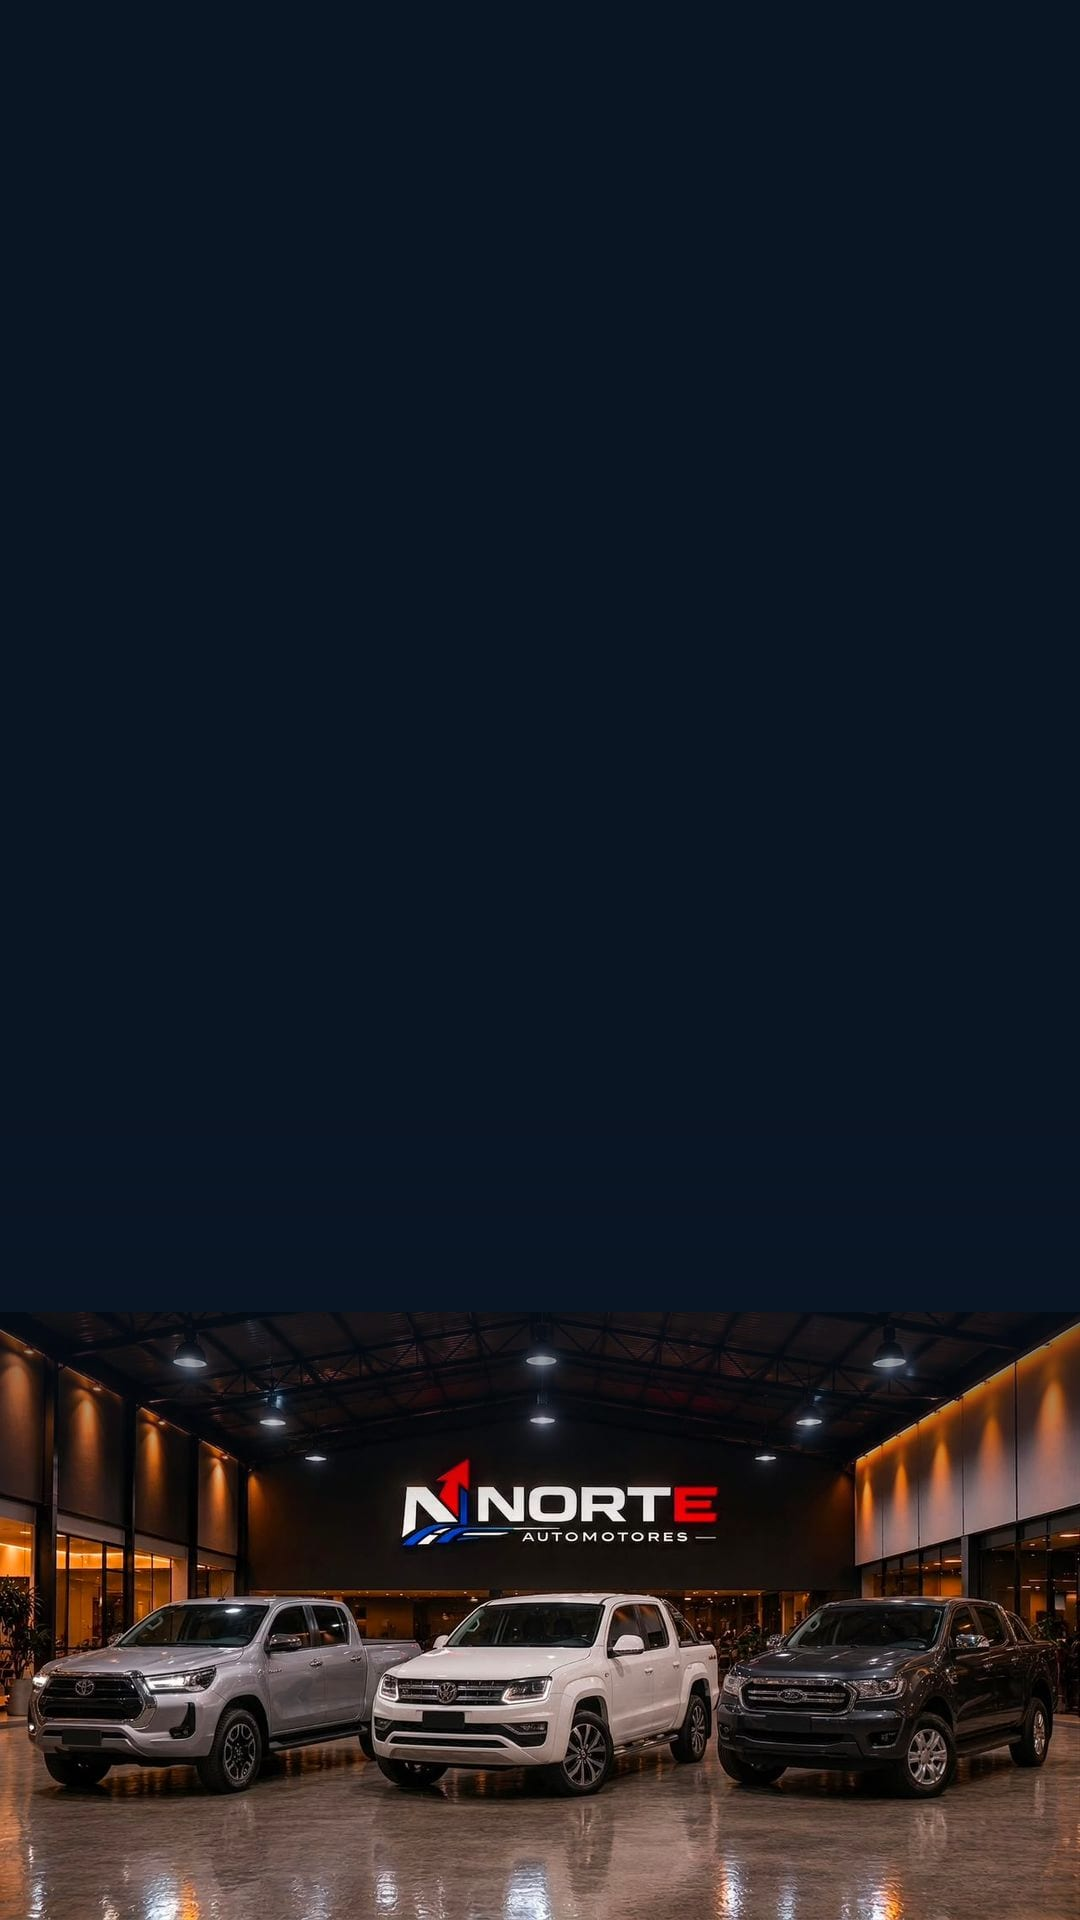
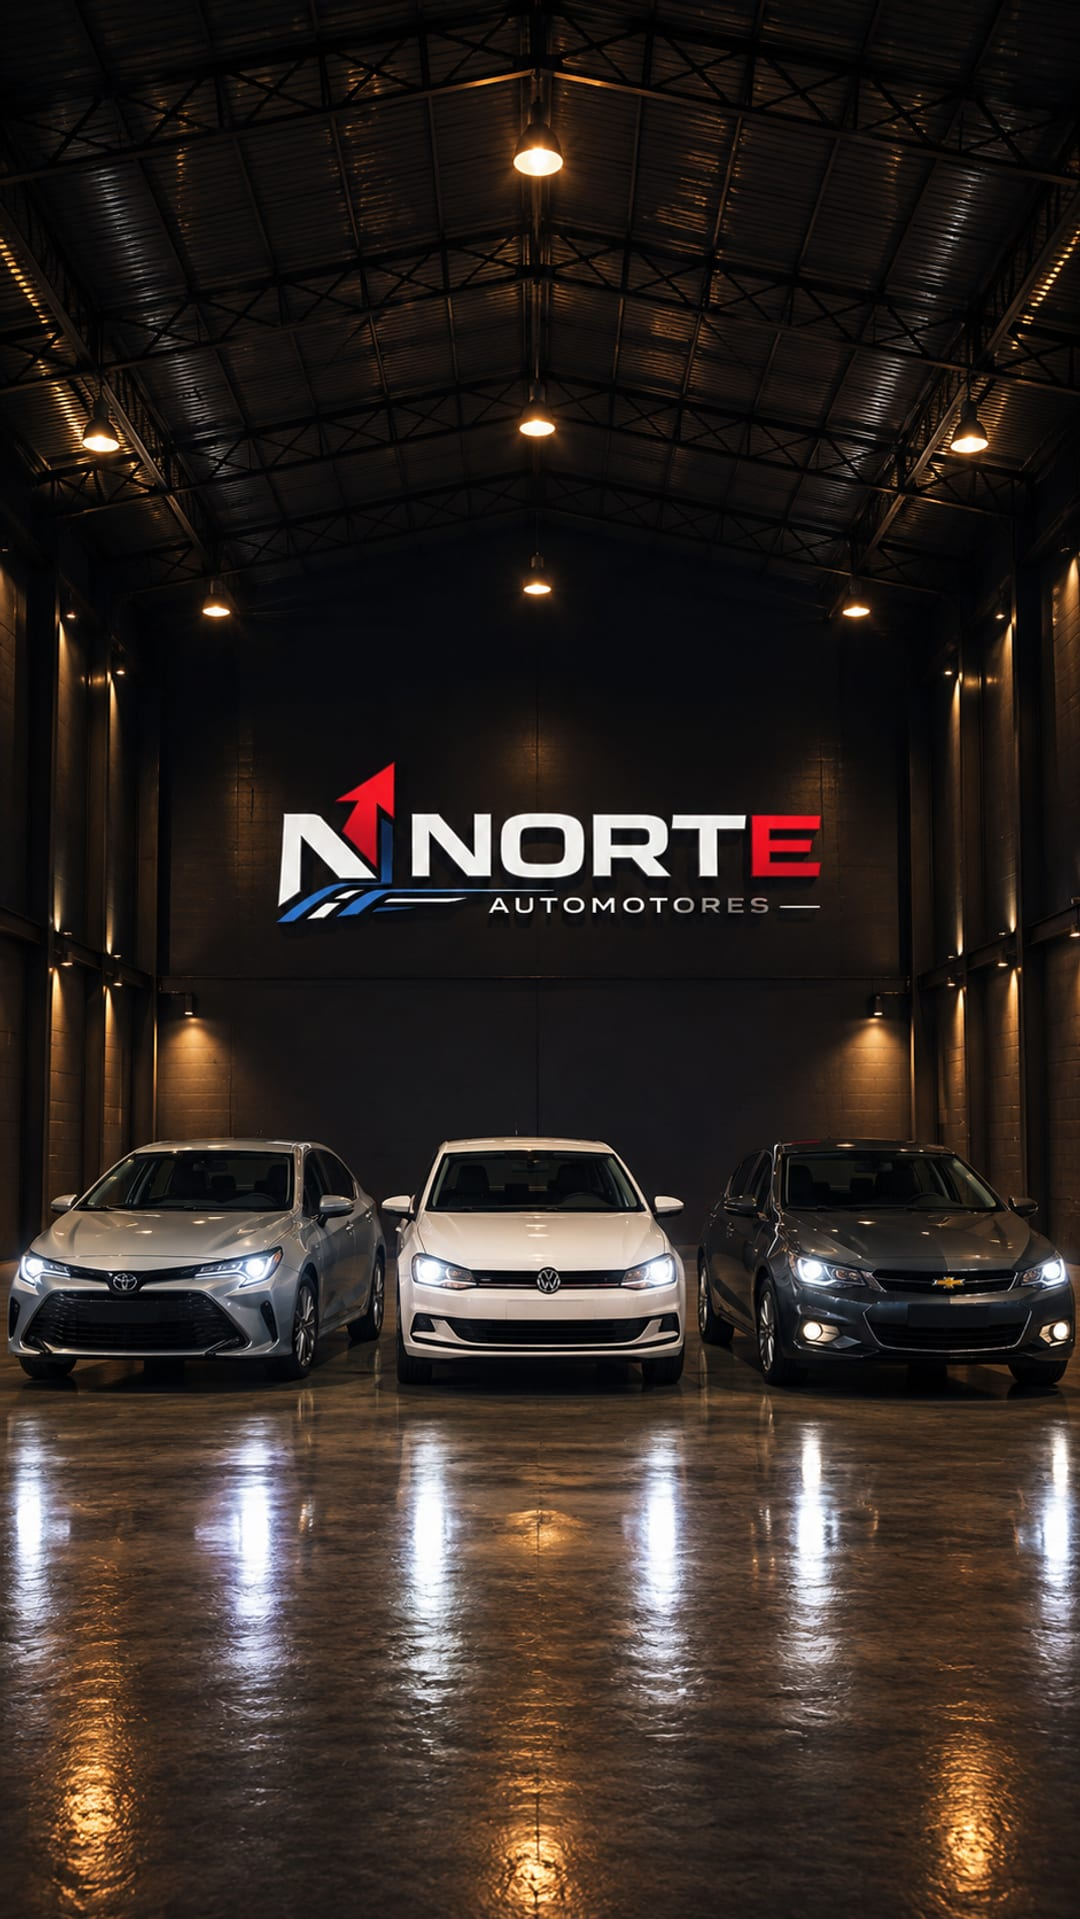
feat: full-bleed mobile hero with the 3 vertical images + same transition
Mobile hero now uses the dedicated portrait images as a full-bleed
slider (same crossfade + ken burns as desktop). White text over top/
bottom scrims; cars and logo stay visible in the middle/lower area.

diff --git a/src/app/page.tsx b/src/app/page.tsx
@@ -80,37 +80,32 @@ export default async function HomePage() {
       ══════════════════════════════════════════════════════ */}
       <section className="relative overflow-hidden bg-white -mt-[108px] pt-[108px]">
 
-        {/* ── MOBILE — texto sobre blanco con el logo N de fondo ── */}
-        <div className="relative lg:hidden min-h-[90dvh] overflow-hidden flex flex-col justify-center px-5 pt-[130px] pb-12 bg-white">
-          {/* Marca de agua del isotipo N */}
-          {/* eslint-disable-next-line @next/next/no-img-element */}
-          <img
-            src="/isotipo-n.svg"
-            alt=""
-            aria-hidden="true"
-            className="absolute pointer-events-none select-none opacity-[0.05] -rotate-12 w-[520px] max-w-none -right-32 top-1/2 -translate-y-1/2"
-          />
-          <div className="relative">
+        {/* ── MOBILE — foto vertical full-bleed con texto encima ── */}
+        <div className="relative lg:hidden min-h-[100dvh] overflow-hidden flex flex-col">
+          {/* Slider de fondo — imágenes verticales */}
+          <div className="absolute inset-0">
+            <HeroSlider images={["/hero-mobile-1.jpg", "/hero-mobile-2.jpg", "/hero-mobile-3.jpg"]} dots={false} objectPosition="center top" />
+          </div>
+          {/* Degradado: oscuro arriba (texto) y abajo (stats), abierto al medio */}
+          <div className="absolute inset-0 bg-gradient-to-b from-[#0A1524]/92 via-[#0A1524]/20 to-[#0A1524]/85 pointer-events-none" />
+
+          <div className="relative z-10 px-5 pt-[130px] pb-10 flex-1 flex flex-col">
             {/* Racing tag */}
-            <div className="flex items-center gap-3 mb-6">
+            <div className="flex items-center gap-3 mb-5">
               <div className="w-8 h-[3px] bg-brand-red" />
               <span className="text-brand-red text-[10px] font-black uppercase tracking-[0.4em] font-mono">La Rioja, Argentina</span>
               <div className="w-4 h-[3px] bg-brand-red/40" />
             </div>
 
             <div className="glint">
-              <h1 className="font-display font-black text-[3.8rem] text-[#173A5E] uppercase tracking-tight leading-[0.85] mb-5">
+              <h1 className="font-display font-black text-[3.5rem] text-white uppercase tracking-tight leading-[0.85] mb-4">
                 {config.hero_title ? config.hero_title : (
-                  <>TU AUTO IDEAL<br /><span className="text-brand-red" style={{ textShadow: "0 0 40px rgba(204,32,32,0.5)" }}>ESTÁ EN</span><br />NORTE</>
+                  <>TU AUTO IDEAL<br /><span className="text-brand-red" style={{ textShadow: "0 0 40px rgba(204,32,32,0.6)" }}>ESTÁ EN</span><br />NORTE</>
                 )}
               </h1>
             </div>
 
-            <p className="text-[#5B6B7D] text-[13px] mb-7 leading-relaxed font-mono">
-              {config.hero_subtitle || "Autos · Motos · Financiación propia — La Rioja"}
-            </p>
-
-            <div className="flex gap-3 mb-4">
+            <div className="flex gap-3 mb-3">
               <Link href="/catalogo"
                 className="flex-1 flex items-center justify-center gap-2 bg-brand-red text-white font-black text-sm py-4 uppercase tracking-wider transition-all active:scale-95"
                 style={{ clipPath: "polygon(8px 0%, 100% 0%, calc(100% - 8px) 100%, 0% 100%)", boxShadow: "0 0 20px rgba(204,32,32,0.35)" }}
@@ -125,23 +120,23 @@ export default async function HomePage() {
               </a>
             </div>
             <a href="#cotizador"
-              className="flex items-center justify-center gap-2 w-full border border-brand-red/50 bg-brand-red/5 hover:bg-brand-red text-brand-red hover:text-white font-black text-sm py-3.5 uppercase tracking-wider transition-all duration-300 mb-8"
+              className="flex items-center justify-center gap-2 w-full border border-white/40 bg-white/5 backdrop-blur-sm hover:bg-brand-red hover:border-brand-red text-white font-black text-sm py-3.5 uppercase tracking-wider transition-all duration-300"
               style={{ clipPath: "polygon(8px 0%, 100% 0%, calc(100% - 8px) 100%, 0% 100%)" }}
             >
               <Calculator size={15} />
               Cotizá tu financiamiento
             </a>
 
-            {/* Stats */}
-            <div className="flex pt-5 border-t border-brand-red/20">
+            {/* Stats abajo */}
+            <div className="mt-auto flex pt-5 border-t border-white/15">
               {[
                 { to: 150, suffix: "+", label: "en stock" },
                 { to: 24, suffix: "hs", label: "respuesta" },
                 { to: 100, suffix: "%", label: "financiación" },
               ].map((s, i) => (
-                <div key={s.label} className={`flex-1 ${i > 0 ? "border-l border-[#173A5E]/15 pl-4" : ""}`}>
-                  <AnimatedCounter to={s.to} suffix={s.suffix} className="font-display font-black text-[1.8rem] text-[#173A5E] leading-none" />
-                  <p className="text-[#5B6B7D]/90 text-[10px] mt-1 uppercase tracking-wider font-mono">{s.label}</p>
+                <div key={s.label} className={`flex-1 ${i > 0 ? "border-l border-white/15 pl-4" : ""}`}>
+                  <AnimatedCounter to={s.to} suffix={s.suffix} className="font-display font-black text-[1.8rem] text-white leading-none" />
+                  <p className="text-white/60 text-[10px] mt-1 uppercase tracking-wider font-mono">{s.label}</p>
                 </div>
               ))}
             </div>